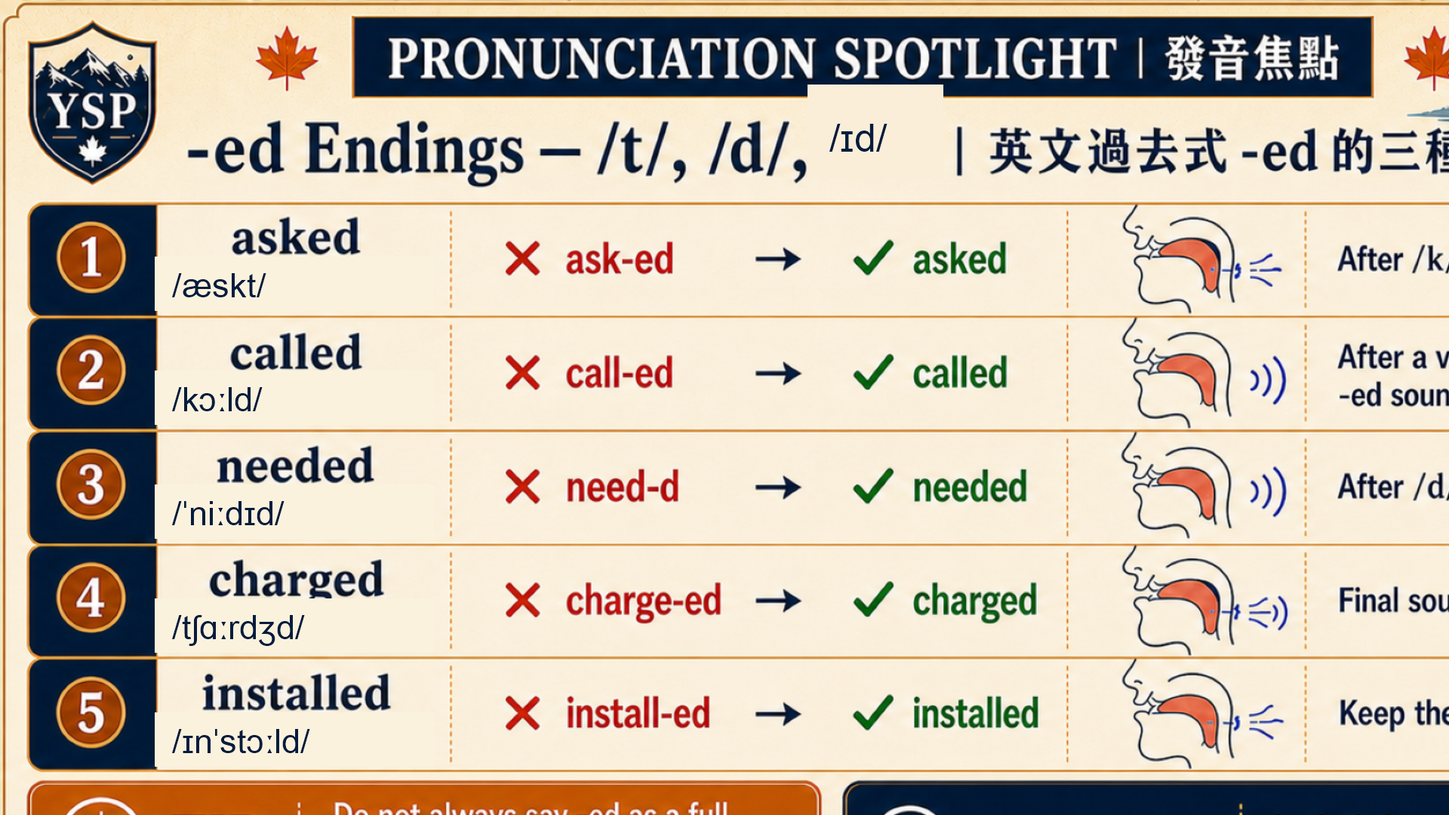
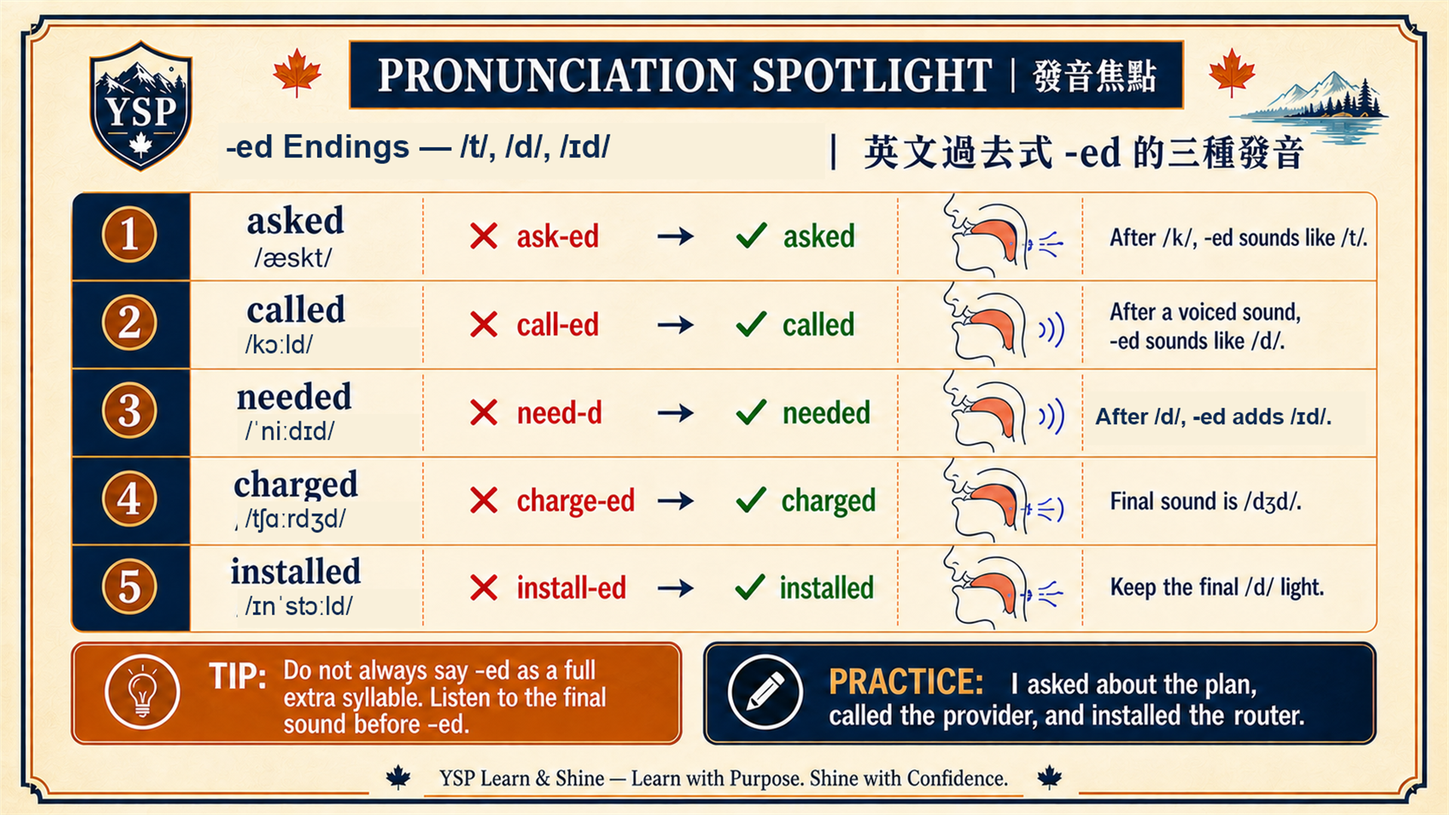
Fix L03 pronunciation image overflow guard

diff --git a/lessons/ca-life/u1-l3.html b/lessons/ca-life/u1-l3.html
@@ -9,8 +9,9 @@
 <style>
 :root{--c-primary:#1B2A4A;--c-secondary:#F5F0E8;--c-accent:#C8956C;--c-bg:#FAF8F5;--c-teal:#2A7A6E;--c-success:#5B8C5A;--c-alert:#D4735E;--c-cat1:#C4887A;--c-cat2:#C49A5C;--c-cat3:#8BA888;--c-cat4:#7A8EB0;--c-cat5:#A08AAC;--c-text:#2C2C2C;--c-muted:#7A7A6E;--c-surface:#FFFFFF;--c-divider:#E8E4DE;--font-b:'Montserrat','Noto Sans TC',sans-serif;--font-c:'Open Sans','Noto Sans TC',Arial,sans-serif;--font-h:'Playfair Display',Georgia,serif}
 *{margin:0;padding:0;box-sizing:border-box}body{font-family:var(--font-c);background:var(--c-bg);color:var(--c-text);line-height:1.6}.brand{font-family:var(--font-b);font-size:.65rem;letter-spacing:3px;color:var(--c-accent);text-transform:uppercase;margin-bottom:4px}h1{font-family:var(--font-h);font-size:1.4rem;color:var(--c-primary);margin-bottom:2px}h2{font-family:var(--font-b);font-size:.95rem;font-weight:700;color:var(--c-primary);margin:0 0 12px}h3{font-family:var(--font-b);font-size:.82rem;font-weight:600;margin:12px 0 6px}.sub{font-size:.8rem;color:var(--c-muted)}.header{text-align:center;padding:20px 16px 14px;border-bottom:2px solid var(--c-accent)}.tabs{display:flex;background:var(--c-primary);position:sticky;top:0;z-index:100;overflow-x:auto;-webkit-overflow-scrolling:touch}.tb{color:#fff;background:none;border:none;font-family:var(--font-b);font-size:.64rem;font-weight:500;padding:10px 11px;cursor:pointer;white-space:nowrap;opacity:.68;border-bottom:3px solid transparent;transition:all .2s}.tb.on{opacity:1;border-bottom-color:var(--c-accent);background:rgba(200,149,108,.1)}.tpn{display:none;max-width:960px;margin:0 auto;padding:20px 16px}.tpn.on{display:block}.sbar{display:flex;gap:10px;flex-wrap:wrap;margin:10px 0}.stat{background:var(--c-surface);border:1px solid var(--c-divider);border-radius:10px;padding:10px 14px;flex:1;min-width:80px;text-align:center}.sn{font-family:var(--font-b);font-size:1.3rem;font-weight:700;color:var(--c-primary)}.sl{font-size:.68rem;color:var(--c-muted);margin-top:2px}.pbar{height:8px;background:var(--c-divider);border-radius:4px;overflow:hidden;margin:6px 0}.pfill{height:100%;border-radius:4px;transition:width .5s;background:var(--c-success)}.fbar{display:flex;gap:5px;flex-wrap:wrap;margin-bottom:14px;align-items:center}.fb{border:1px solid var(--c-divider);background:var(--c-surface);border-radius:6px;padding:4px 10px;font-size:.7rem;font-family:var(--font-b);font-weight:500;cursor:pointer;transition:all .2s}.fb.on{background:var(--c-primary);color:#fff;border-color:var(--c-primary)}.fb.f1.on{background:var(--c-alert);border-color:var(--c-alert)}.fb.f2.on{background:var(--c-accent);border-color:var(--c-accent)}.fb.f3.on{background:var(--c-success);border-color:var(--c-success);color:#fff}.sbx{border:1px solid var(--c-divider);border-radius:6px;padding:4px 10px;font-size:.73rem;font-family:var(--font-c);min-width:100px;max-width:160px}.cg{display:grid;grid-template-columns:repeat(3,1fr);gap:14px}@media(max-width:768px){.cg{grid-template-columns:repeat(2,1fr)}}@media(max-width:480px){.cg{grid-template-columns:1fr}}.vc{cursor:pointer;border-radius:12px;background:var(--c-surface);border:1px solid var(--c-divider);overflow:hidden;box-shadow:0 3px 10px rgba(27,42,74,.06);transition:box-shadow .2s}.vc:hover{box-shadow:0 4px 16px rgba(27,42,74,.12)}.va{height:5px}.bdg{float:right;font-size:.58rem;font-weight:700;padding:2px 6px;border-radius:4px;background:#D5F5E3;color:#1E8449;margin:6px 6px 0 0}.vf{padding:16px 14px;text-align:center}.vf .pic svg{width:40px;height:40px;opacity:.85}.vf .pr{font-size:.85rem;color:var(--c-muted);margin:6px 0}.vf .ew{font-size:42px;font-family:var(--font-b);font-weight:700;color:var(--c-primary);line-height:1.2;word-break:break-word}.vf .fh{font-size:.62rem;color:var(--c-muted);opacity:.6;margin-top:10px}.vb{display:none;padding:14px 14px 16px}.vc.fl .vf{display:none}.vc.fl .vb{display:block}.vb .eb{font-size:18px;font-family:var(--font-b);font-weight:700;color:var(--c-primary);line-height:1.4}.vb .zb{font-size:18px;font-weight:600;color:var(--c-accent);line-height:1.4;margin:2px 0 6px}.vb .dv{height:1px;background:var(--c-divider);margin:6px 0}.vb .mg{font-size:18px;color:var(--c-text);line-height:1.5;margin:4px 0}.vb .ex{font-size:18px;color:var(--c-muted);font-style:italic;line-height:1.5;margin:4px 0}.vb .pl{font-size:14px;font-weight:600;color:var(--c-accent);margin:4px 0 2px}.vb .pi{font-size:18px;color:var(--c-text);line-height:1.5;margin:3px 0}.famb{display:flex;gap:3px;justify-content:center;padding:6px;background:var(--c-secondary);border-top:1px solid var(--c-divider)}.fm{border:none;border-radius:4px;padding:3px 8px;font-size:.62rem;cursor:pointer;font-family:var(--font-b);font-weight:600;opacity:.5;transition:all .2s}.fm:hover{opacity:.8}.fm.sel{opacity:1}.f1c{background:#FDECEA;color:var(--c-alert)}.f2c{background:#FFF3E0;color:#B8860B}.f3c{background:#E8F5E9;color:var(--c-success)}.vc[data-fam="1"]{border-left:4px solid var(--c-alert)}.vc[data-fam="2"]{border-left:4px solid var(--c-accent)}.vc[data-fam="3"]{border-left:4px solid var(--c-success)}.eg{display:grid;grid-template-columns:repeat(3,1fr);gap:10px}@media(max-width:768px){.eg{grid-template-columns:repeat(2,1fr)}}@media(max-width:480px){.eg{grid-template-columns:1fr}}.ec{background:var(--c-surface);border:1px solid var(--c-divider);border-radius:8px;padding:10px 12px;border-left:4px solid var(--c-divider)}.ec .een{font-family:var(--font-b);font-weight:600;color:var(--c-primary);font-size:.85rem}.ec .epr{font-size:.68rem;color:var(--c-muted)}.ec .ezh{font-size:.8rem;color:var(--c-accent);font-weight:500;margin:2px 0}.ec .emg{font-size:.72rem;color:var(--c-text)}.ec .eex{font-size:.7rem;color:var(--c-muted);font-style:italic}.dzone{max-width:500px;margin:0 auto}.dc{background:var(--c-surface);border:2px solid var(--c-divider);border-radius:14px;padding:30px 20px;text-align:center;min-height:200px;display:flex;flex-direction:column;align-items:center;justify-content:center;margin:14px 0;cursor:pointer;transition:border-color .3s}.dc:hover{border-color:var(--c-accent)}.dc .dp{font-size:.75rem;color:var(--c-muted);margin-bottom:8px}.dc .dw{font-family:var(--font-h);font-size:1.6rem;color:var(--c-primary);margin:6px 0}.dc .ds{font-size:.85rem;color:var(--c-muted)}.dc .da{font-size:1.2rem;color:var(--c-accent);font-weight:700;margin:10px 0;display:none}.dc.sa .da{display:block}.dn{display:flex;justify-content:space-between;align-items:center;margin:10px 0}.dbtn{padding:8px 20px;border:none;border-radius:8px;font-family:var(--font-b);font-weight:600;font-size:.78rem;cursor:pointer}.dtally{text-align:center;font-size:.74rem;color:var(--c-muted);margin:8px 0 4px}.ffbar{display:flex;gap:8px;margin:10px 0;flex-wrap:wrap}.ff{padding:6px 14px;border:1px solid var(--c-divider);border-radius:20px;background:#fff;font-family:var(--font-b);font-size:.74rem;cursor:pointer;opacity:.45;transition:opacity .15s}.ff.on{opacity:1;border-color:var(--c-primary);font-weight:600}.dempty{text-align:center;padding:40px 20px;color:var(--c-muted);font-size:.85rem}.ysp-image-gallery{margin-top:14px;border:1px dashed var(--c-divider);border-radius:8px;padding:10px 14px}.ysp-image-gallery-head{font-size:.68rem;color:var(--c-muted);display:flex;justify-content:space-between;margin-bottom:6px}.ysp-image-gallery-mount{min-height:4px}.lt{display:flex;gap:6px;margin-bottom:16px;justify-content:center}.lb{padding:6px 16px;border:2px solid var(--c-divider);border-radius:8px;background:var(--c-surface);font-family:var(--font-b);font-size:.75rem;font-weight:600;cursor:pointer;transition:all .2s}.lb.on{background:var(--c-primary);color:#fff;border-color:var(--c-primary)}.phr{background:var(--c-surface);border:1px solid var(--c-divider);border-radius:8px;padding:12px 16px;margin:6px 0}.phr .ptg{font-size:.58rem;font-weight:700;margin-bottom:3px}.phr .pen{font-size:.9rem;font-weight:600;color:var(--c-primary);margin:3px 0}.phr .pzh{font-size:.82rem;color:var(--c-accent)}.phr .pnt{font-size:.74rem;color:var(--c-muted);margin-top:3px}.prc{background:var(--c-surface);border:2px solid var(--c-accent);border-radius:10px;padding:18px 20px}.prc .fo{font-family:var(--font-h);font-size:1rem;color:var(--c-primary);margin:6px 0}.prc .pw{display:flex;gap:12px;flex-wrap:wrap;margin:10px 0}.prc .wd{background:var(--c-secondary);padding:6px 12px;border-radius:6px;font-size:.85rem}.prc .ptip{background:#FFF8E1;padding:8px 12px;border-radius:6px;font-size:.8rem;margin:8px 0}.dlg{background:var(--c-surface);border:1px solid var(--c-divider);border-radius:10px;margin:10px 0;overflow:hidden}.dlg .dh{padding:10px 16px;display:flex;justify-content:space-between;align-items:center}.dlg .dtag{font-size:.58rem;font-weight:700;padding:2px 6px;border-radius:4px}.dtr{background:#D5F5E3;color:#1E8449}.dtc{background:#D6EAF8;color:#2471A3}.dlg .si{font-size:.78rem;color:var(--c-muted);padding:0 16px 8px}.dlg .rl{display:flex;gap:8px;padding:0 16px 8px}.dlg .ro{flex:1;padding:8px 12px;border-radius:6px;font-size:.75rem}.ra{background:var(--c-primary);color:#fff}.rb{background:var(--c-teal);color:#fff}.dlg .ls{padding:6px 16px 12px}.dlg .ln{display:flex;gap:6px;margin:3px 0;align-items:flex-start}.dlg .wh{font-family:var(--font-b);font-weight:700;font-size:.7rem;width:18px;height:18px;border-radius:50%;display:flex;align-items:center;justify-content:center;flex-shrink:0;margin-top:2px}.wa{background:var(--c-primary);color:#fff}.wb{background:var(--c-teal);color:#fff}.dlg .sp{font-size:.8rem;line-height:1.5}.dlg .tr{background:var(--c-secondary);padding:10px 16px;border-top:1px solid var(--c-divider)}.dlg .tr b{color:var(--c-accent);font-size:.8rem}.dlg .tr p{font-size:.78rem;margin-top:3px}.dlg .tn{padding:10px 16px;background:#F8F9FA;border-top:1px solid var(--c-divider);font-size:.74rem;color:var(--c-muted);display:none}.dlg .tn.show{display:block}.dlg .tg2{text-align:center;padding:5px;font-size:.7rem;color:var(--c-muted);cursor:pointer;border-top:1px solid var(--c-divider)}.sq{background:var(--c-surface);border:1px solid var(--c-divider);border-radius:8px;padding:12px 16px;margin:6px 0}.sq .stl{font-size:.63rem;font-weight:700;padding:2px 6px;border-radius:4px;display:inline-block;margin-bottom:4px}.s1{background:#E8F5E9;color:#2E7D32}.s2{background:#FFF3E0;color:#E65100}.s3{background:#FCE4EC;color:#C62828}.sq .qq{font-size:.88rem;font-weight:500;color:var(--c-primary);margin:3px 0}.sq .qh{font-size:.76rem;color:var(--c-muted);font-style:italic}.cult{background:var(--c-surface);border:1px solid var(--c-divider);border-radius:10px;padding:16px 20px;margin:8px 0}.cult .cs{font-size:.63rem;font-weight:700;color:var(--c-accent)}.cult .ct{font-family:var(--font-h);font-size:.95rem;color:var(--c-primary);margin:4px 0 6px}.cult .cp{background:var(--c-secondary);border-radius:6px;padding:16px;text-align:center;font-size:.76rem;color:var(--c-muted);margin-bottom:8px}.cult .cn{font-size:.8rem;line-height:1.6;margin-bottom:8px}.cult .cq{font-size:.8rem;color:var(--c-primary);margin:3px 0;padding-left:10px;border-left:2px solid var(--c-accent)}.pvh{padding:8px 14px;background:var(--c-secondary);cursor:pointer;font-family:var(--font-b);font-size:.8rem;font-weight:600;color:var(--c-primary);display:flex;justify-content:space-between;border-radius:8px;margin:4px 0}.pvb{max-height:0;overflow:hidden;transition:max-height .3s}.pvb.open{max-height:2400px}.pvl{display:flex;flex-wrap:wrap;gap:6px;padding:8px 0}.pvc{background:var(--c-surface);border:1px solid var(--c-divider);border-radius:6px;padding:4px 10px;font-size:.74rem}.pvc .pe{font-weight:600;color:var(--c-primary)}.pvc .pz{color:var(--c-muted);margin-left:4px}.note{background:var(--c-surface);border:1px solid var(--c-divider);border-left:4px solid var(--c-accent);border-radius:8px;padding:12px 14px;margin:8px 0;font-size:.8rem;color:var(--c-muted)}.footer{text-align:center;padding:20px;color:var(--c-muted);font-family:var(--font-b);font-size:.68rem;border-top:1px solid var(--c-divider);margin-top:20px}
-.ysp-image-gallery-mount{min-width:0;overflow:hidden}
-.ysp-image-gallery-grid{display:grid;grid-template-columns:minmax(0,1fr);gap:12px;width:100%}
+.ysp-image-gallery{min-width:0;max-width:100%;overflow:hidden}
+.ysp-image-gallery-mount{min-width:0;max-width:100%;overflow:hidden}
+.ysp-image-gallery-grid{display:grid;grid-template-columns:minmax(0,1fr);gap:12px;width:100%;max-width:100%}
 .ysp-image-gallery-grid img{display:block;width:100%;max-width:100%;height:auto;aspect-ratio:16/9;object-fit:contain}
 </style>
 </head>

diff --git a/templates/lesson-l02-template.html b/templates/lesson-l02-template.html
@@ -9,8 +9,9 @@
 <style>
 :root{--c-primary:#1B2A4A;--c-secondary:#F5F0E8;--c-accent:#C8956C;--c-bg:#FAF8F5;--c-teal:#2A7A6E;--c-success:#5B8C5A;--c-alert:#D4735E;--c-cat1:#C4887A;--c-cat2:#C49A5C;--c-cat3:#8BA888;--c-cat4:#7A8EB0;--c-cat5:#A08AAC;--c-text:#2C2C2C;--c-muted:#7A7A6E;--c-surface:#FFFFFF;--c-divider:#E8E4DE;--font-b:'Montserrat','Noto Sans TC',sans-serif;--font-c:'Open Sans','Noto Sans TC',Arial,sans-serif;--font-h:'Playfair Display',Georgia,serif}
 *{margin:0;padding:0;box-sizing:border-box}body{font-family:var(--font-c);background:var(--c-bg);color:var(--c-text);line-height:1.6}.brand{font-family:var(--font-b);font-size:.65rem;letter-spacing:3px;color:var(--c-accent);text-transform:uppercase;margin-bottom:4px}h1{font-family:var(--font-h);font-size:1.4rem;color:var(--c-primary);margin-bottom:2px}h2{font-family:var(--font-b);font-size:.95rem;font-weight:700;color:var(--c-primary);margin:0 0 12px}h3{font-family:var(--font-b);font-size:.82rem;font-weight:600;margin:12px 0 6px}.sub{font-size:.8rem;color:var(--c-muted)}.header{text-align:center;padding:20px 16px 14px;border-bottom:2px solid var(--c-accent)}.tabs{display:flex;background:var(--c-primary);position:sticky;top:0;z-index:100;overflow-x:auto;-webkit-overflow-scrolling:touch}.tb{color:#fff;background:none;border:none;font-family:var(--font-b);font-size:.64rem;font-weight:500;padding:10px 11px;cursor:pointer;white-space:nowrap;opacity:.68;border-bottom:3px solid transparent;transition:all .2s}.tb.on{opacity:1;border-bottom-color:var(--c-accent);background:rgba(200,149,108,.1)}.tpn{display:none;max-width:960px;margin:0 auto;padding:20px 16px}.tpn.on{display:block}.sbar{display:flex;gap:10px;flex-wrap:wrap;margin:10px 0}.stat{background:var(--c-surface);border:1px solid var(--c-divider);border-radius:10px;padding:10px 14px;flex:1;min-width:80px;text-align:center}.sn{font-family:var(--font-b);font-size:1.3rem;font-weight:700;color:var(--c-primary)}.sl{font-size:.68rem;color:var(--c-muted);margin-top:2px}.pbar{height:8px;background:var(--c-divider);border-radius:4px;overflow:hidden;margin:6px 0}.pfill{height:100%;border-radius:4px;transition:width .5s;background:var(--c-success)}.fbar{display:flex;gap:5px;flex-wrap:wrap;margin-bottom:14px;align-items:center}.fb{border:1px solid var(--c-divider);background:var(--c-surface);border-radius:6px;padding:4px 10px;font-size:.7rem;font-family:var(--font-b);font-weight:500;cursor:pointer;transition:all .2s}.fb.on{background:var(--c-primary);color:#fff;border-color:var(--c-primary)}.fb.f1.on{background:var(--c-alert);border-color:var(--c-alert)}.fb.f2.on{background:var(--c-accent);border-color:var(--c-accent)}.fb.f3.on{background:var(--c-success);border-color:var(--c-success);color:#fff}.sbx{border:1px solid var(--c-divider);border-radius:6px;padding:4px 10px;font-size:.73rem;font-family:var(--font-c);min-width:100px;max-width:160px}.cg{display:grid;grid-template-columns:repeat(3,1fr);gap:14px}@media(max-width:768px){.cg{grid-template-columns:repeat(2,1fr)}}@media(max-width:480px){.cg{grid-template-columns:1fr}}.vc{cursor:pointer;border-radius:12px;background:var(--c-surface);border:1px solid var(--c-divider);overflow:hidden;box-shadow:0 3px 10px rgba(27,42,74,.06);transition:box-shadow .2s}.vc:hover{box-shadow:0 4px 16px rgba(27,42,74,.12)}.va{height:5px}.bdg{float:right;font-size:.58rem;font-weight:700;padding:2px 6px;border-radius:4px;background:#D5F5E3;color:#1E8449;margin:6px 6px 0 0}.vf{padding:16px 14px;text-align:center}.vf .pic svg{width:40px;height:40px;opacity:.85}.vf .pr{font-size:.85rem;color:var(--c-muted);margin:6px 0}.vf .ew{font-size:42px;font-family:var(--font-b);font-weight:700;color:var(--c-primary);line-height:1.2;word-break:break-word}.vf .fh{font-size:.62rem;color:var(--c-muted);opacity:.6;margin-top:10px}.vb{display:none;padding:14px 14px 16px}.vc.fl .vf{display:none}.vc.fl .vb{display:block}.vb .eb{font-size:18px;font-family:var(--font-b);font-weight:700;color:var(--c-primary);line-height:1.4}.vb .zb{font-size:18px;font-weight:600;color:var(--c-accent);line-height:1.4;margin:2px 0 6px}.vb .dv{height:1px;background:var(--c-divider);margin:6px 0}.vb .mg{font-size:18px;color:var(--c-text);line-height:1.5;margin:4px 0}.vb .ex{font-size:18px;color:var(--c-muted);font-style:italic;line-height:1.5;margin:4px 0}.vb .pl{font-size:14px;font-weight:600;color:var(--c-accent);margin:4px 0 2px}.vb .pi{font-size:18px;color:var(--c-text);line-height:1.5;margin:3px 0}.famb{display:flex;gap:3px;justify-content:center;padding:6px;background:var(--c-secondary);border-top:1px solid var(--c-divider)}.fm{border:none;border-radius:4px;padding:3px 8px;font-size:.62rem;cursor:pointer;font-family:var(--font-b);font-weight:600;opacity:.5;transition:all .2s}.fm:hover{opacity:.8}.fm.sel{opacity:1}.f1c{background:#FDECEA;color:var(--c-alert)}.f2c{background:#FFF3E0;color:#B8860B}.f3c{background:#E8F5E9;color:var(--c-success)}.vc[data-fam="1"]{border-left:4px solid var(--c-alert)}.vc[data-fam="2"]{border-left:4px solid var(--c-accent)}.vc[data-fam="3"]{border-left:4px solid var(--c-success)}.eg{display:grid;grid-template-columns:repeat(3,1fr);gap:10px}@media(max-width:768px){.eg{grid-template-columns:repeat(2,1fr)}}@media(max-width:480px){.eg{grid-template-columns:1fr}}.ec{background:var(--c-surface);border:1px solid var(--c-divider);border-radius:8px;padding:10px 12px;border-left:4px solid var(--c-divider)}.ec .een{font-family:var(--font-b);font-weight:600;color:var(--c-primary);font-size:.85rem}.ec .epr{font-size:.68rem;color:var(--c-muted)}.ec .ezh{font-size:.8rem;color:var(--c-accent);font-weight:500;margin:2px 0}.ec .emg{font-size:.72rem;color:var(--c-text)}.ec .eex{font-size:.7rem;color:var(--c-muted);font-style:italic}.dzone{max-width:500px;margin:0 auto}.dc{background:var(--c-surface);border:2px solid var(--c-divider);border-radius:14px;padding:30px 20px;text-align:center;min-height:200px;display:flex;flex-direction:column;align-items:center;justify-content:center;margin:14px 0;cursor:pointer;transition:border-color .3s}.dc:hover{border-color:var(--c-accent)}.dc .dp{font-size:.75rem;color:var(--c-muted);margin-bottom:8px}.dc .dw{font-family:var(--font-h);font-size:1.6rem;color:var(--c-primary);margin:6px 0}.dc .ds{font-size:.85rem;color:var(--c-muted)}.dc .da{font-size:1.2rem;color:var(--c-accent);font-weight:700;margin:10px 0;display:none}.dc.sa .da{display:block}.dn{display:flex;justify-content:space-between;align-items:center;margin:10px 0}.dbtn{padding:8px 20px;border:none;border-radius:8px;font-family:var(--font-b);font-weight:600;font-size:.78rem;cursor:pointer}.dtally{text-align:center;font-size:.74rem;color:var(--c-muted);margin:8px 0 4px}.ffbar{display:flex;gap:8px;margin:10px 0;flex-wrap:wrap}.ff{padding:6px 14px;border:1px solid var(--c-divider);border-radius:20px;background:#fff;font-family:var(--font-b);font-size:.74rem;cursor:pointer;opacity:.45;transition:opacity .15s}.ff.on{opacity:1;border-color:var(--c-primary);font-weight:600}.dempty{text-align:center;padding:40px 20px;color:var(--c-muted);font-size:.85rem}.ysp-image-gallery{margin-top:14px;border:1px dashed var(--c-divider);border-radius:8px;padding:10px 14px}.ysp-image-gallery-head{font-size:.68rem;color:var(--c-muted);display:flex;justify-content:space-between;margin-bottom:6px}.ysp-image-gallery-mount{min-height:4px}.lt{display:flex;gap:6px;margin-bottom:16px;justify-content:center}.lb{padding:6px 16px;border:2px solid var(--c-divider);border-radius:8px;background:var(--c-surface);font-family:var(--font-b);font-size:.75rem;font-weight:600;cursor:pointer;transition:all .2s}.lb.on{background:var(--c-primary);color:#fff;border-color:var(--c-primary)}.phr{background:var(--c-surface);border:1px solid var(--c-divider);border-radius:8px;padding:12px 16px;margin:6px 0}.phr .ptg{font-size:.58rem;font-weight:700;margin-bottom:3px}.phr .pen{font-size:.9rem;font-weight:600;color:var(--c-primary);margin:3px 0}.phr .pzh{font-size:.82rem;color:var(--c-accent)}.phr .pnt{font-size:.74rem;color:var(--c-muted);margin-top:3px}.prc{background:var(--c-surface);border:2px solid var(--c-accent);border-radius:10px;padding:18px 20px}.prc .fo{font-family:var(--font-h);font-size:1rem;color:var(--c-primary);margin:6px 0}.prc .pw{display:flex;gap:12px;flex-wrap:wrap;margin:10px 0}.prc .wd{background:var(--c-secondary);padding:6px 12px;border-radius:6px;font-size:.85rem}.prc .ptip{background:#FFF8E1;padding:8px 12px;border-radius:6px;font-size:.8rem;margin:8px 0}.dlg{background:var(--c-surface);border:1px solid var(--c-divider);border-radius:10px;margin:10px 0;overflow:hidden}.dlg .dh{padding:10px 16px;display:flex;justify-content:space-between;align-items:center}.dlg .dtag{font-size:.58rem;font-weight:700;padding:2px 6px;border-radius:4px}.dtr{background:#D5F5E3;color:#1E8449}.dtc{background:#D6EAF8;color:#2471A3}.dlg .si{font-size:.78rem;color:var(--c-muted);padding:0 16px 8px}.dlg .rl{display:flex;gap:8px;padding:0 16px 8px}.dlg .ro{flex:1;padding:8px 12px;border-radius:6px;font-size:.75rem}.ra{background:var(--c-primary);color:#fff}.rb{background:var(--c-teal);color:#fff}.dlg .ls{padding:6px 16px 12px}.dlg .ln{display:flex;gap:6px;margin:3px 0;align-items:flex-start}.dlg .wh{font-family:var(--font-b);font-weight:700;font-size:.7rem;width:18px;height:18px;border-radius:50%;display:flex;align-items:center;justify-content:center;flex-shrink:0;margin-top:2px}.wa{background:var(--c-primary);color:#fff}.wb{background:var(--c-teal);color:#fff}.dlg .sp{font-size:.8rem;line-height:1.5}.dlg .tr{background:var(--c-secondary);padding:10px 16px;border-top:1px solid var(--c-divider)}.dlg .tr b{color:var(--c-accent);font-size:.8rem}.dlg .tr p{font-size:.78rem;margin-top:3px}.dlg .tn{padding:10px 16px;background:#F8F9FA;border-top:1px solid var(--c-divider);font-size:.74rem;color:var(--c-muted);display:none}.dlg .tn.show{display:block}.dlg .tg2{text-align:center;padding:5px;font-size:.7rem;color:var(--c-muted);cursor:pointer;border-top:1px solid var(--c-divider)}.sq{background:var(--c-surface);border:1px solid var(--c-divider);border-radius:8px;padding:12px 16px;margin:6px 0}.sq .stl{font-size:.63rem;font-weight:700;padding:2px 6px;border-radius:4px;display:inline-block;margin-bottom:4px}.s1{background:#E8F5E9;color:#2E7D32}.s2{background:#FFF3E0;color:#E65100}.s3{background:#FCE4EC;color:#C62828}.sq .qq{font-size:.88rem;font-weight:500;color:var(--c-primary);margin:3px 0}.sq .qh{font-size:.76rem;color:var(--c-muted);font-style:italic}.cult{background:var(--c-surface);border:1px solid var(--c-divider);border-radius:10px;padding:16px 20px;margin:8px 0}.cult .cs{font-size:.63rem;font-weight:700;color:var(--c-accent)}.cult .ct{font-family:var(--font-h);font-size:.95rem;color:var(--c-primary);margin:4px 0 6px}.cult .cp{background:var(--c-secondary);border-radius:6px;padding:16px;text-align:center;font-size:.76rem;color:var(--c-muted);margin-bottom:8px}.cult .cn{font-size:.8rem;line-height:1.6;margin-bottom:8px}.cult .cq{font-size:.8rem;color:var(--c-primary);margin:3px 0;padding-left:10px;border-left:2px solid var(--c-accent)}.pvh{padding:8px 14px;background:var(--c-secondary);cursor:pointer;font-family:var(--font-b);font-size:.8rem;font-weight:600;color:var(--c-primary);display:flex;justify-content:space-between;border-radius:8px;margin:4px 0}.pvb{max-height:0;overflow:hidden;transition:max-height .3s}.pvb.open{max-height:2400px}.pvl{display:flex;flex-wrap:wrap;gap:6px;padding:8px 0}.pvc{background:var(--c-surface);border:1px solid var(--c-divider);border-radius:6px;padding:4px 10px;font-size:.74rem}.pvc .pe{font-weight:600;color:var(--c-primary)}.pvc .pz{color:var(--c-muted);margin-left:4px}.note{background:var(--c-surface);border:1px solid var(--c-divider);border-left:4px solid var(--c-accent);border-radius:8px;padding:12px 14px;margin:8px 0;font-size:.8rem;color:var(--c-muted)}.footer{text-align:center;padding:20px;color:var(--c-muted);font-family:var(--font-b);font-size:.68rem;border-top:1px solid var(--c-divider);margin-top:20px}
-.ysp-image-gallery-mount{min-width:0;overflow:hidden}
-.ysp-image-gallery-grid{display:grid;grid-template-columns:minmax(0,1fr);gap:12px;width:100%}
+.ysp-image-gallery{min-width:0;max-width:100%;overflow:hidden}
+.ysp-image-gallery-mount{min-width:0;max-width:100%;overflow:hidden}
+.ysp-image-gallery-grid{display:grid;grid-template-columns:minmax(0,1fr);gap:12px;width:100%;max-width:100%}
 .ysp-image-gallery-grid img{display:block;width:100%;max-width:100%;height:auto;aspect-ratio:16/9;object-fit:contain}
 </style>
 </head>

diff --git a/scripts/ysp_gallery_quality_check.py b/scripts/ysp_gallery_quality_check.py
@@ -31,6 +31,14 @@ RESPONSIVE_IMAGE_RULES = {
     "object-fit": "contain",
 }
 
+GALLERY_CONTAINER_RULES = {
+    ".ysp-image-gallery-mount": {"min-width": "0", "overflow": "hidden"},
+    ".ysp-image-gallery-grid": {
+        "grid-template-columns": "minmax(0,1fr)",
+        "width": "100%",
+    },
+}
+
 
 def rel(path: Path) -> str:
     return path.relative_to(ROOT).as_posix()
@@ -75,6 +83,11 @@ def check_gallery_blocks(path: Path, text: str) -> None:
 
     seen_gallery_ids = set()
     if galleries:
+        for selector, rules in GALLERY_CONTAINER_RULES.items():
+            declarations = css_declarations(text, selector)
+            for name, expected in rules.items():
+                if declarations.get(name) != expected:
+                    err(path, f"Gallery container requires {selector} {name}:{expected}")
         image_css = css_declarations(text, ".ysp-image-gallery-grid img")
         for name, expected in RESPONSIVE_IMAGE_RULES.items():
             if image_css.get(name) != expected:

diff --git a/docs/CANADA_LIFE_IMAGE_PROMPT_STANDARD.md b/docs/CANADA_LIFE_IMAGE_PROMPT_STANDARD.md
@@ -75,6 +75,8 @@ Use `YSP_PRONUNCIATION_IMAGE_STANDARD.md` structurally. Canada Life adds aged-pa
 - One generation call per asset, using its Golden reference and exact lesson prompt.
 - No generic template, variants, or contact sheets inside the lesson folder.
 - Magnified review for English, Traditional Chinese, IPA, and numbers.
+- Before release, visually reopen all 15 final images. Every border, title, teaching row, right-side note, bottom panel, branding mark, and footer must remain fully inside the 1920x1080 canvas; intrinsic crop or edge overflow is BLOCKING.
+- After routing images into lesson HTML, inspect every rendered gallery image at desktop and narrow/mobile widths. The image bounding box and scroll width must remain within its gallery mount; source-dimension checks alone are insufficient.
 - Exact 1920×1080; over 2 MB warning, over 5 MB block.
 - Validate source text, line counts, `tp`, branding, Canadian context, and style fidelity.
 - Two-failure stop-loss applies.

diff --git a/AGENTS.md b/AGENTS.md
@@ -168,6 +168,7 @@ These are a compact reminder only; latest Notion rules remain authoritative.
   the grid is a single `minmax(0, 1fr)` column, and rendered images use
   `width: 100%`, `max-width: 100%`, `height: auto`, `aspect-ratio: 16/9`,
   and `object-fit: contain`. Intrinsic 1920 px images must never overflow the lesson panel.
+- Before any image update or lesson-image publication passes review, reopen every final lesson image and confirm no title, row, side note, bottom panel, brand element, or footer is cropped by the raster canvas. Then verify every rendered image stays within its gallery mount at desktop and narrow/mobile widths. Dimensions alone never prove this gate.
 - Global nav markers use `YSP_GLOBAL_NAV_LOADER_START` / `YSP_GLOBAL_NAV_LOADER_END` and include `data-ysp-base`.
 - Final tab buttons are exactly:
   - `📊 Learning Overview`

diff --git a/docs/YSP_PRONUNCIATION_IMAGE_STANDARD.md b/docs/YSP_PRONUNCIATION_IMAGE_STANDARD.md
@@ -58,5 +58,7 @@ Include exact filename; bilingual focus; five complete word/IPA/incorrect/correc
 - Articulation diagrams match the target.
 - Tips, overall tip, and practice sentence exact.
 - No clipping, missing glyph, or punctuation drift unless source-authorized.
+- The full header, all five teaching modules, right-side tips/diagrams, TIP panel, PRACTICE panel, and footer must be visibly inside the canvas safe area. A 1920x1080 file with internally cropped content is a BLOCKING failure.
+- Reopen and inspect the final PNG at magnification, then verify its rendered desktop and narrow/mobile gallery bounds before release.
 - Dimensions/file-size gates pass.
 - Two-failure stop-loss applies.
